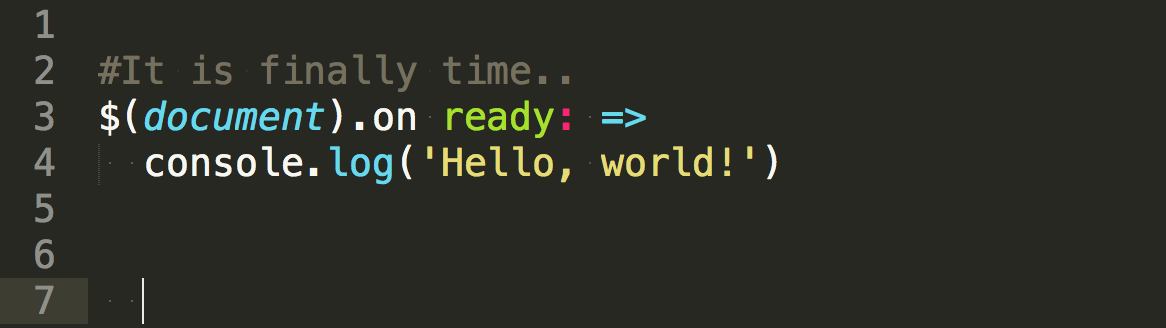
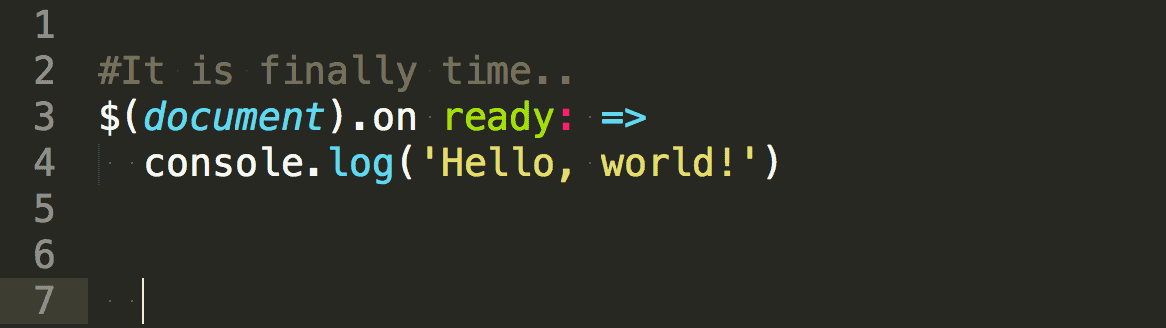
Optimized some images for lower size

Changed region(s): [[0.3705, 0.3049, 0.494, 0.3963]]

diff --git a/src/documents/posts/fluent-2014.html.md b/src/documents/posts/fluent-2014.html.md
@@ -8,7 +8,7 @@ tags:
     - community
 summary: "I attended O'Reilly Media's [Fluent 2014](http://fluentconf.com/fluent2014) conference at the Marriot Marquis hotel in San Francisco, California last week. I flew over with 5 web- and frontend-loving colleagues and spent the week there. It was an excellent experience - let me recap the best talks I attended."
 draft: false
-image: 'fluent_2014.jpeg'
+image: 'fluent_2014.png'
 
 ---
 
